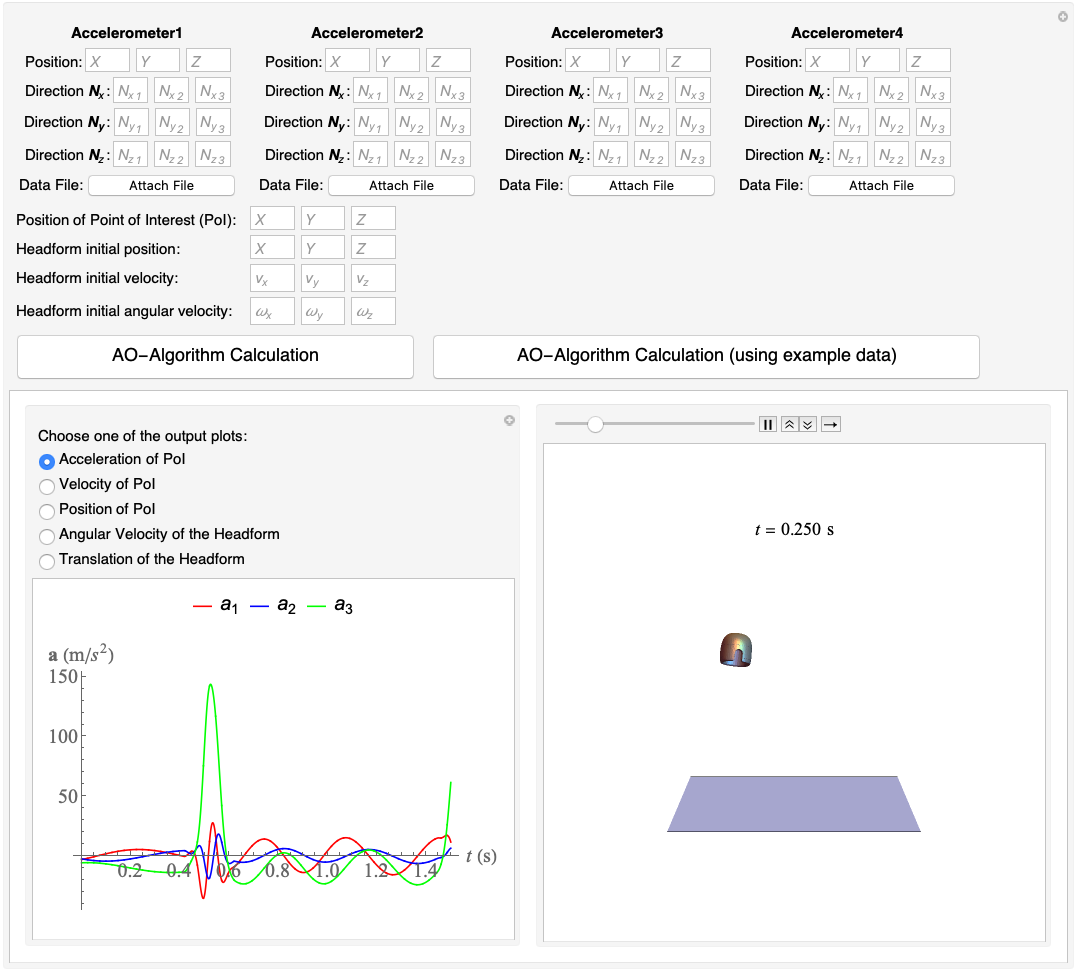
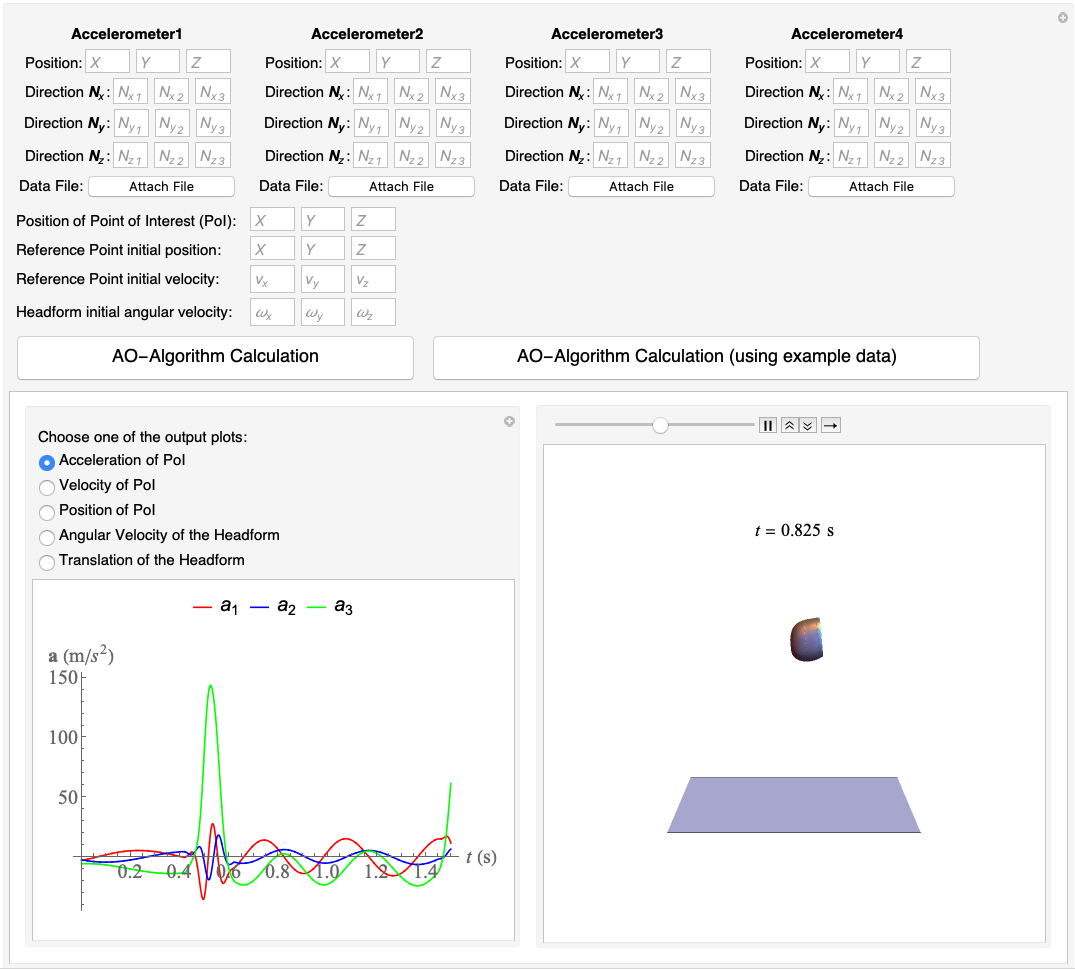
modify README

diff --git a/README.md b/README.md
@@ -2,17 +2,50 @@
 
 Determining the motion and acceleration field of a rigid body using measurements from four tri-axial accelerometers.
 
+
+<!-- TABLE OF CONTENTS -->
+<details open="open">
+  <summary>Table of Contents</summary>
+  <ol>
+    <li>
+      <a href="#screenshot">Screenshot</a>
+    </li>
+    <li>
+      <a href="#getting-started">Getting Started</a>
+      <ul>
+        <li><a href="#download-and-install-wolfram-player">Download and Install Wolfram Player</a></li>
+        <li><a href="#download-ao-desktop-app">Download AO-Desktop-App</a></li>
+        <li><a href="#usage-example">Usage Example</a></li>
+      </ul>
+    </li>
+    <li>
+      <a href="#requirement-on-input-fields-and-data-files">Requirement on Input Fields and Data Files</a>
+      <ul>
+        <li><a href="#positions-and-directions-of-four-accelerometers">Positions and Directions of Four Accelerometers</a></li>
+        <li><a href="#accelerometer-data-file-format">Accelerometer Data File Format</a></li>
+        <li><a href="#point-of-interest-(poi)-and-initial-conditions">Point of Interest (PoI) and Initial Conditions</a></li>
+      </ul>
+    </li>
+    <li><a href="#license">License</a></li>
+    <li><a href="#contact">Contact</a></li>
+    <li><a href="#reference">Reference</a></li>
+  </ol>
+</details>
+
+## Screenshot
 ![](images/App_ScreenShot.png)
 
+This app is developed using Wolfram Language. It takes positions, directions and measurements of 4 accelerometers, position of point of interest and initial conditions of a rigid body as input. After performing calculation using AO-Algorithm, it outputs an interactive plot of multiple choices of variables and a simulation video showing the motion of the rigid body.
+
 ## Getting Started
-It is relatively simple to run AO-Desktop-App on your own by following the instructions.
+It is easy to run AO-Desktop-App on your own by following the instructions:
 
-#### Download and Install Wolfram Player
-In order to open the AO-Desktop-App in the main file `AO-App.cdf`, you need to install [Wolfram Player](https://www.wolfram.com/player/) on your computer. [Wolfram Player](https://www.wolfram.com/player/) is a free software developed by [Wolfram Reserch](https://en.wikipedia.org/wiki/Wolfram_Research). The player is available for Microsoft Windows, Macintosh, Linux and iOS, which can be downloaded from the following website:
+### Download and Install Wolfram Player
+In order to open the AO-Desktop-App in the main file `AO-App.cdf`, you need to install [Wolfram Player](https://www.wolfram.com/player/) on your computer. [Wolfram Player](https://www.wolfram.com/player/) is a free software developed by [Wolfram Reserch](https://en.wikipedia.org/wiki/Wolfram_Research). The player is available for Microsoft Windows, Macintosh, Linux and iOS, and can be downloaded from the following website:
 
-https://www.wolfram.com/player/
+https://www.wolfram.com/player
 
-Taking **MacOS** for example, after you open the downloaded `WolframPlayer_12.1.1_MAC_DLM` file, you should see
+Taking **MacOS** for example, after you open the downloaded `WolframPlayer_12.1.1_MAC_DLM` file, you should be able to see
 
 ![](images/DownloadManager.png)
 
@@ -22,47 +55,76 @@ After it is finished, you need to launch the installation package and it will sh
 
 When this is done, you can drag the Wolfram Player icon to the Applications folder to complete installation.
 
-#### Download AO-Desktop-App
+### Download AO-Desktop-App
 
-On the top-right corner of this page, you will see a green button called "Code". Clicking on that, you will find the option to Download ZIP of the whole project.
+On the top-right corner of this page, you will see a green button **⤓ Code**. Clicking on it, you will find the option to **Download ZIP** of the whole project.
 
 ![](images/DownloadApp.png)
 
-You need to unzip the file. Inside the resulted folder, you will find the main file `AO-App.cdf`, open it with [Wolfram Player](https://www.wolfram.com/player/). Upon opening the file, you see a pop-up window as shown in the following screenshot. Click on "Yes".
+You need to unzip the file. Inside the resulted folder, you will find the main file `AO-App.cdf`, open it with [Wolfram Player](https://www.wolfram.com/player/). Upon opening the file, you may see a pop-up window as shown in the following screenshot. Click on **Yes**.
 
 ![](images/Initialization.png)
 
-#### Usage example
+### Usage Example
 
-After you have done all the above steps, you now have a user-interface to work on.
+After you have done all the above steps correctly, A user-interface will show up in the opened file as the following screenshot.
 
 ![](images/GUI.png)
 
-You will need to input data including Postions and Directions of 
+You will need to input data including positions and directions of four accelerometers in global coordinate system, attach data files and input position of Point of Interest (PoI) and initial conditions in order to hit on **AO-Algorithm Calculation** button. We will discuss the requirement of each input field and the format of data files in next section.
 
-## Acceleration Data File format
+For a quick demonstration, you can simply click **AO-Algorithm Calculation (using example data)** button to load example data and run the calculation. It takes around 20 seconds, depending on your CPU and memory performance, to finish the calculation. When it is finished, you will see a dialog window shown as
 
-* Each file contains the acceleration measurement of one accelerometer
-* Format: n*4 matrix
-* Units: Meter, Second, Kg
+![](images/CalculationDone.png)
 
-| Time | Acc_x | Acc_y | Acc_z |
+After clicking **OK**, the result will show up in the output panel. You can choose different output plots and control the video interactively.
+
+
+## Requirement on Input Fields and Data Files
+
+### Positions and Directions of Four Accelerometers
+Type positions and directions components as real numbers in the input boxes. Be aware that positions and directions vectors are projected in global coordinate system. For the given example data, we have
+* **Accelerometer 1**
+  - Position: $(0,0,0.83)$
+  - $\boldsymbol{N}_x = (1, 0, 0)$, $\boldsymbol{N}_y = (0, 1, 0)$, $\boldsymbol{N}_z = (0, 0, 1)$
+* **Accelerometer 2**
+  - Position: $(0,0.1,0.75)$
+  - $\boldsymbol{N}_x = (1, 0, 0)$, $\boldsymbol{N}_y = (0, 1, 0)$, $\boldsymbol{N}_z = (0, 0, 1)$
+* **Accelerometer 3**
+  - Position: $(0.15,0,0.75)$
+  - $\boldsymbol{N}_x = (1, 0, 0)$, $\boldsymbol{N}_y = (0, 1, 0)$, $\boldsymbol{N}_z = (0, 0, 1)$
+* **Accelerometer 4**
+  - Position: $(-0.15,0,0.75)$
+  - $\boldsymbol{N}_x = (0, 1, 0)$, $\boldsymbol{N}_y = (-1, 0, 0)$, $\boldsymbol{N}_z = (0, 0, 1)$
+
+### Accelerometer Data File Format
+
+* Each data file only contains the acceleration measurement of a single accelerometer.
+* All measurements should have same frequency, starting from the same time instance $t = 0.0 $ and ending at same time instance.
+* Each data file should contain 4 columns. From left to right, the 4 columns denote time, acceleration in $X$ direction, acceleration in $Y$ direction, acceleration in $Z$ direction.
+* The first row should be the labels for each column. Starting from the second row, measurement are separated by either space or comma.
+* Use SI units (Meter, Second, Kg, etc.) for all data.
+
+An example format of acceptable data file is
+| Time | Acc_X | Acc_Y | Acc_Z |
 |------|-------|-------|-------|
-| ...  | ...   | ...   | ...   |
-| ...  | ...   | ...   | ...   |
+| 0.0 | 3.46  | -5.  |  -7.85 |
+| 0.00025  | 3.48  | -5.01   | -7.85   |
+| ...   | ...   | ...   | ...   |
 
 
-## Position and direction of accelerometers
-* X1={0,0,0.83}, N={{1, 0, 0}, {0, 1, 0}, {0, 0, 1}}
-* X2={0,0.1,0.75}, N={{1, 0, 0}, {0, 1, 0}, {0, 0, 1}}
-* X3={0.15,0,0.75}, N={{1, 0, 0}, {0, 1, 0}, {0, 0, 1}}
-* X4={-0.15,0,0.75}, N={{0, 1, 0}, {-1, 0, 0}, {0, 0, 1}}
+### Point of Interest (PoI) and Initial Conditions
+* You need to choose a Point of Interest (PoI) and input its position so that the app will predict the **Acceleration**, **Velocity** and **Position** of PoI as functions of time.
+  * We take the Point of Interest to be $(0, 0, 0.67)$ in the example data.
+* A reference point is required in order to define initial position and initial velocity. The reference point can be any point whose position and velocity are known in the initial time instance. It is not necessary to be the center of mass, or one of the accelerometer positions.
+  * We take the reference point initial position to be $(0,0,0.75)$ and reference point initial velocity to be $(0.75,0,0)$ in the example data.
+* The initial angular velocity of the Headform should be given.
+  * We take the initial angular velocity to be $(5,5,5)$ in the example data.
 
-X5={0,0,0.67}
-
-
-## Initial condition
-* R = I
-* The position of the center of mass Xcm of the ellipsoid is (0,0,0.75)
-* The initial velocity of Xcm is (0.75,0,0)
-* The angular velocity of the body is (5,5,5)
+## License
+Distributed under the GNU General Public License. See `LICENSE` for more information.
+## Contact
+Wenqiang Fang - wenqiang_fang@brown.edu
+Project Link: https://github.com/AppliedMechanicsLab/AO-Desktop-App
+## Reference
+Rahaman, Mohammad Masiur, Wenqiang Fang, Alice Lux Fawzi, Yang Wan, and Haneesh Kesari. "An accelerometer-only algorithm for determining the acceleration field of a rigid body, with application in studying the mechanics of mild Traumatic Brain Injury." *Journal of the Mechanics and Physics of Solids* (2020): 104014.
